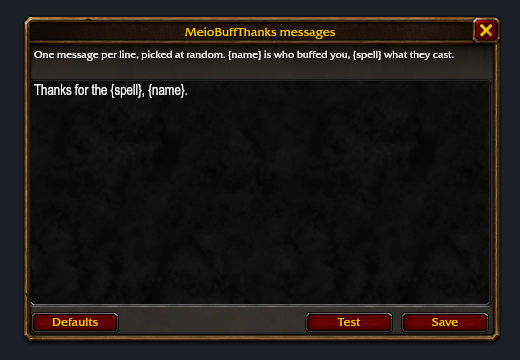
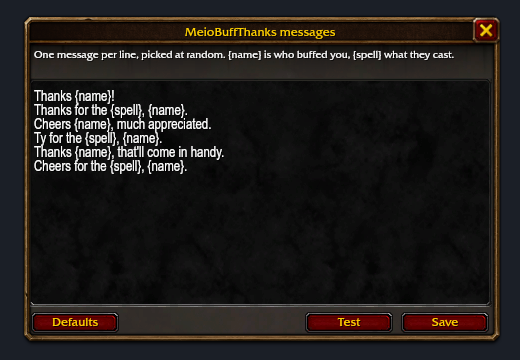
Listing images: buffs and whispers before/after, gallery at defaults
The hero is now a before/after: your new buffs over a quiet chat, then the whispers they
caused. messages.png shows the six default lines and settings.png the default settings
(Thank your group off).

Changed region(s): [[0.0615, 0.2139, 0.4308, 0.4889]]

diff --git a/README.md b/README.md
@@ -4,9 +4,9 @@ Someone buffs you, they get a thank you whisper, with a line picked at random fr
 
 For WoW Forever.
 
-![Three players buff you, and each gets a whisper: "Thanks for the Power Word: Fortitude
-and Divine Spirit, Ancuta!", "Ty Brom, much appreciated.", "Cheers for the Arcane Intellect,
-Cael."](docs/chat.png)
+![Three players buff you: before, just the buffs; with Meio Buff Thanks, each gets one
+whisper, "Thanks for the Power Word: Fortitude and Divine Spirit, Ancuta.", "Cheers for the
+Mark of the Wild, Brom.", "Thanks Cael, that'll come in handy."](docs/before-after.png)
 
 ## What it does
 
